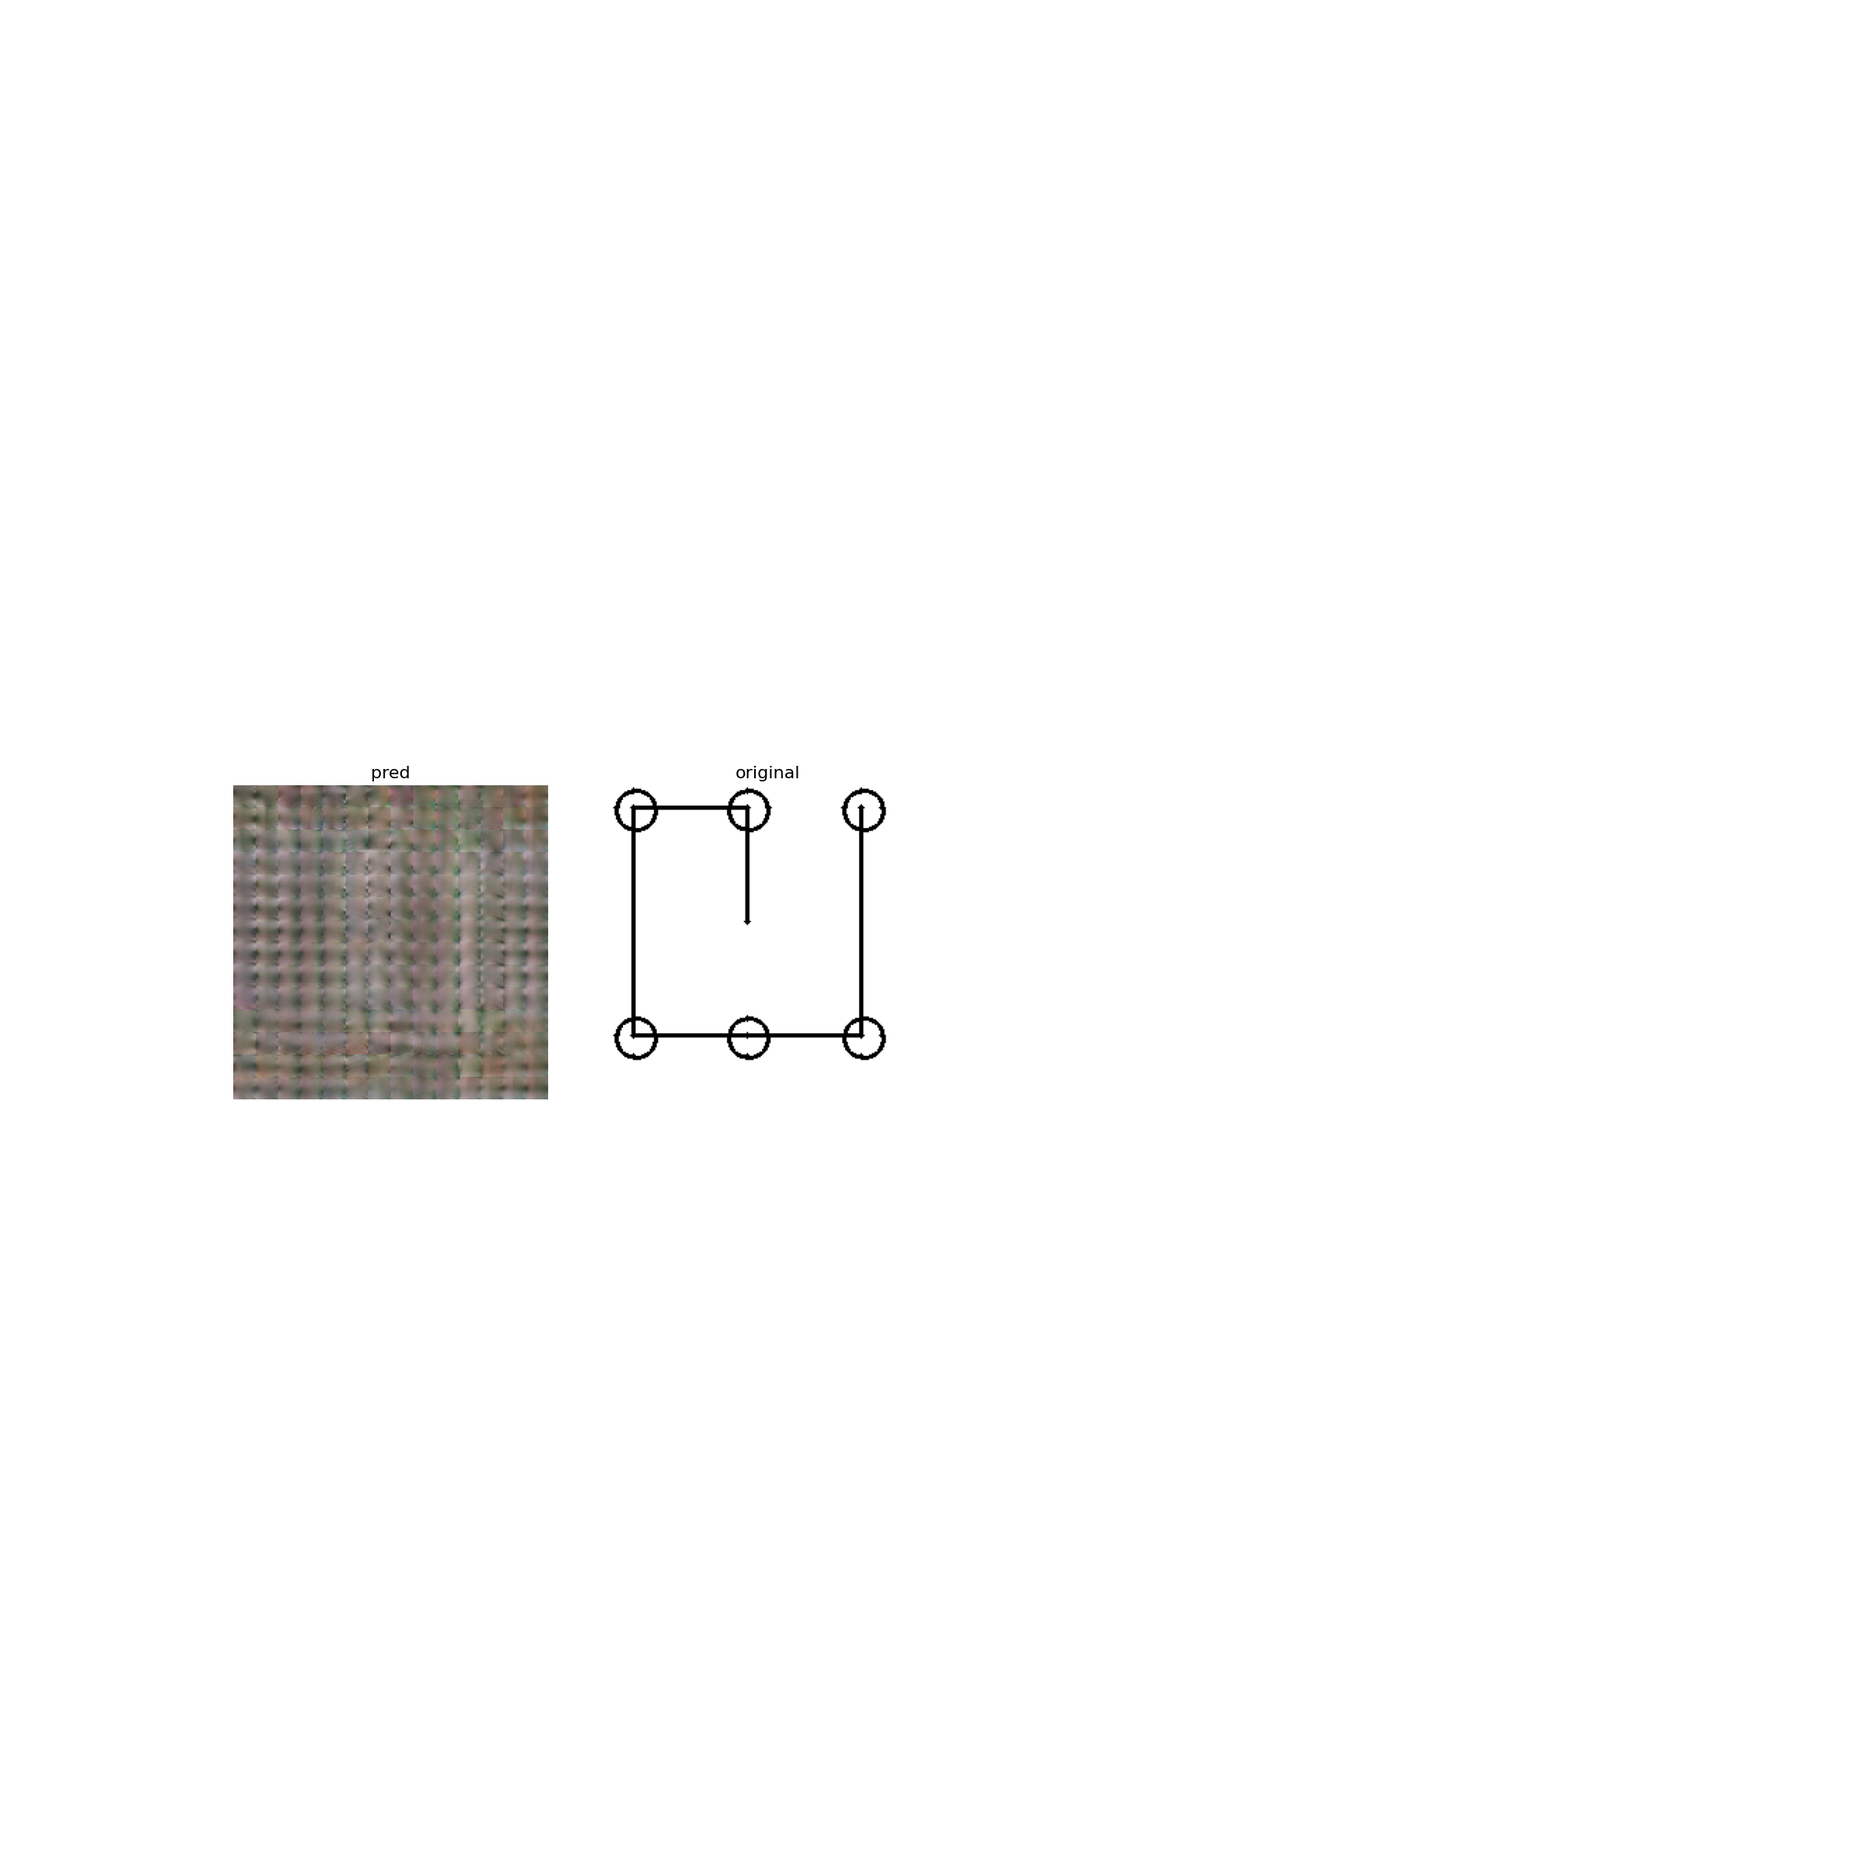
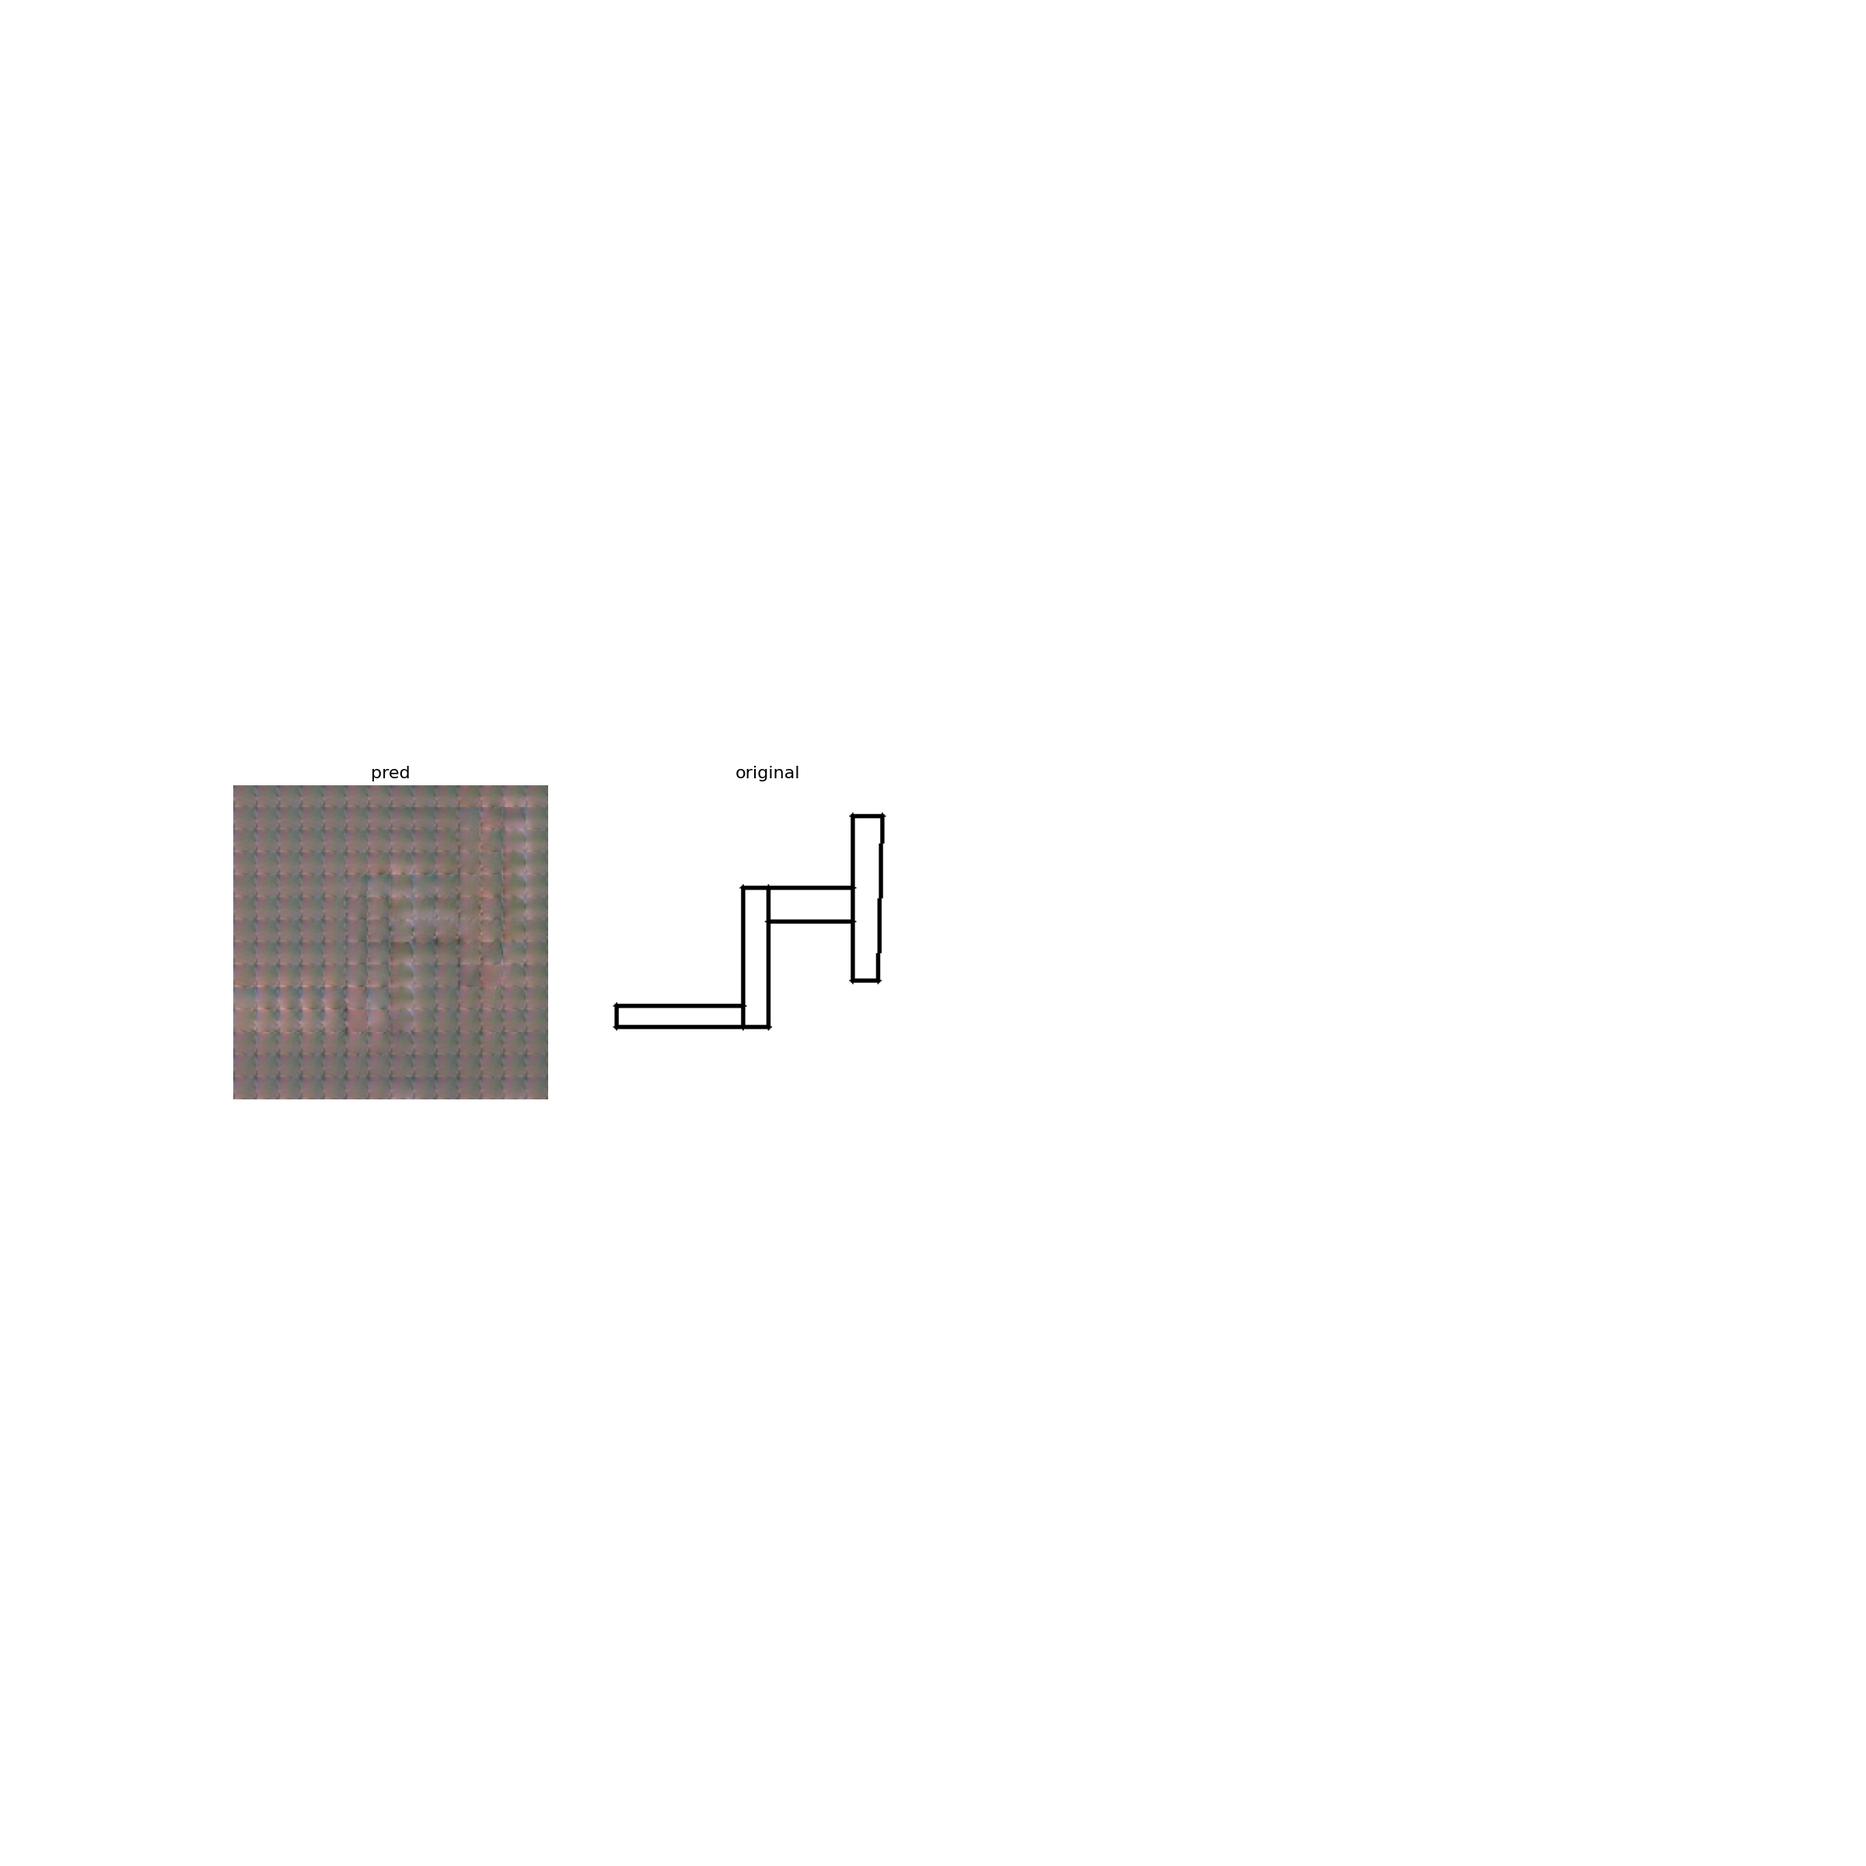
add hand_drawn for each entitiy

Changed region(s): [[0.125, 0.4062, 0.3125, 0.5938], [0.3125, 0.4062, 0.4688, 0.5625], [0.3125, 0.4375, 0.3438, 0.4688]]

diff --git a/geometry/visualization.py b/geometry/visualization.py
@@ -75,6 +75,48 @@ def visualize_sample(input_curves, box_lim):
     # del matplotlib, plt
     return out
 
+def visualize_sample_handraw(entities, box_lim):
+    input_curves = [get_curves(ent) for ent in entities]
+    batch_size = len(input_curves)
+    
+    dpi = 100
+    figure_size_inches = ( 224 / dpi, 224 / dpi)
+    out = []
+    url = "http://images.cocodataset.org/val2017/000000039769.jpg"
+    
+    
+    for in_curve in input_curves:
+
+        # import matplotlib.pyplot as plt
+        fig, ax = plt.subplots()
+        fig.set_dpi(dpi)
+        fig.set_size_inches(figure_size_inches)
+        # fig.subplots_adjust(left=0, bottom=0, right=1, top=1)
+
+        handraw_curves(in_curve, ax=ax, box_lim=box_lim, color="black")
+        # draw_curves(label_curves[i], ax=ax, box_lim=box_lim, color="blue")
+
+        fig.canvas.draw()
+        img = Image.frombytes('RGB', fig.canvas.get_width_height(), fig.canvas.tostring_rgb())
+        # plt.pause(3.)
+        plt.close()
+        # plt.cla()
+        # plt.clf()
+        # plt.close('all')
+        # plt.close(fig)
+        # gc.collect()
+        
+        del fig, ax
+        out.append(img)
+        
+        # img.close()
+        # image = Image.open(requests.get(url, stream=True).raw)
+        # out.append(image)
+
+    # gc.collect()
+    # del matplotlib, plt
+    return out
+
 
 def visualize_sample_cv(point_entities, box_lim):
     dpi = 100
@@ -98,6 +140,18 @@ def visualize_sample_pil(point_entities, box_lim):
 
     return out
 
+def handraw_curves(curves, ax, box_lim, color, draw_points=False):
+    ax.set_xlim(left=-3, right=box_lim)
+    ax.set_ylim(bottom=-3, top=box_lim)
+    ax.set_xticks([])
+    ax.set_yticks([])
+
+    colors = {2: 'red', 3:'green', 4:'blue'}
+
+    for curve in curves:
+        if curve and curve.good:
+                curve.hand_draw(ax=ax,  color=colors[curve.points.shape[0]], draw_points=draw_points)
+   
 def draw_curves(curves, ax, box_lim, color, draw_points=False):
     ax.set_xlim(left=-3, right=box_lim)
     ax.set_ylim(bottom=-3, top=box_lim)
@@ -108,8 +162,7 @@ def draw_curves(curves, ax, box_lim, color, draw_points=False):
 
     for curve in curves:
         if curve and curve.good:
-                curve.draw(ax=ax,  color=colors[curve.points.shape[0]], draw_points=draw_points)
-            
+                curve.draw(ax=ax,  color=colors[curve.points.shape[0]], draw_points=draw_points)         
 
 def render_sketch_opencv(point_entities, size, quantize_bins, linewidth=2):
 
@@ -117,7 +170,10 @@ def render_sketch_opencv(point_entities, size, quantize_bins, linewidth=2):
     cell_size = size // quantize_bins
 
     curves = get_curves(point_entities)
-    assert all(curve for curve in curves)
+    for curve in curves:
+        if curve ==  None:
+            print(point_entities) 
+            assert all(curve for curve in curves)
 
     for curve in curves:
         curve.draw_np(np_image, draw_points=True, linewidth=linewidth, cell_size=cell_size)

diff --git a/geometry/arc.py b/geometry/arc.py
@@ -2,9 +2,12 @@ import cv2
 import matplotlib.lines as lines
 import matplotlib.patches as patches
 import numpy as np
+import numpy.random as npr
 
+import math
 import geometry.geom_utils as geom_utils
 from geometry.curve import Curve
+from geometry.line import Line
 from geometry.opencv_colors import CV2_COLORS
 
 
@@ -12,7 +15,20 @@ class Arc(Curve):
     def __init__(self, points):
         assert len(points) == 3, "Arc must be defined by 3 points"
         super(Arc, self).__init__(points)
+        
+        self.start_point=None
         self.find_arc_geometry()
+        
+        if self.start_point!=None:
+            self.get_ranges()
+            self._get_chol()
+        
+    def get_ranges(self):
+        self.update_x(self.start_point[0])
+        self.update_y(self.start_point[1])
+        self.update_x(self.end_point[0])
+        self.update_x(self.end_point[1])
+
 
     def draw(self, ax, draw_points=True, linewidth=1, color="green"):
         if not self.good:
@@ -43,6 +59,45 @@ class Arc(Curve):
         if draw_points:
             self.draw_points(ax)
 
+    def hand_draw(self, ax, draw_points=True, linewidth=1, color="green"):
+        if not self.good:
+            xdata, ydata = zip(self.points[0], self.points[2])
+            line = Line((self.points[0],self.points[2]))
+            line.hand_draw(ax, draw_points, linewidth,color)
+            
+            return 
+        
+        start_angle = geom_utils.rads_to_degs(self.start_angle_rads)
+        end_angle = geom_utils.rads_to_degs(self.end_angle_rads)
+        
+        # angle = math.atan2(self.center[1], self.center[0]) * 180 / math.pi
+        # start = start_angle * 180 / math.pi + angle
+        # end = end_angle * 180 / math.pi + angle
+        
+        start = np.pi * start_angle / 180
+        end = np.pi * end_angle / 180
+        
+
+
+        if end < start:
+            end += 2 * np.pi
+
+        length = np.abs(self.radius * (end-start))
+        max_idx = np.maximum(int(np.floor((length / self.scale) * self.resolution)), 1)
+
+        try:
+            y = self.scale * self.cK[:max_idx, :max_idx] @ npr.randn(max_idx)
+        except:
+            import pdb;pdb.set_trace()
+            
+        thetas = np.linspace(start, end, max_idx)
+        newx = self.center[0]+ (self.radius + y) * np.cos(thetas)
+        newy = self.center[1] + (self.radius + y) * np.sin(thetas)
+        
+        ax.plot(newx, newy, color=color, linewidth=linewidth)
+        if draw_points:
+            self.draw_points(ax)
+    
     def draw_np(self, np_image, draw_points=True, linewidth=1, color="green", cell_size=4):
         """ Draw the line on a quantized grid with cell of size (cell_size, cell_size) """
 
@@ -125,6 +180,10 @@ class Arc(Curve):
 
         # [O' Rourke (C)] p. 201. Simplified by Jim Ward.
         a, b, c = self.points
+        a = np.array(a)
+        b = np.array(b)
+        c = np.array(c)
+        
 
         A = b[0] - a[0] 
         B = b[1] - a[1]

diff --git a/geometry/curve.py b/geometry/curve.py
@@ -2,12 +2,61 @@ import math
 import cv2
 from geometry.opencv_colors import CV2_COLORS
 
+import numpy as np
+from numpy.linalg import cholesky
+
+def get_distances(x: np.ndarray, length_scale: float, squared: bool=False) -> np.ndarray: 
+    x2d = np.atleast_2d(x) / length_scale
+    squared_distances = (x2d-x2d.T)**2
+    distances = np.sqrt(squared_distances)
+    return distances if squared is False else (distances, squared_distances)
+
+def jitter(arr: np.ndarray, nugget: float=1e-6) -> np.ndarray: 
+    m, _ = arr.shape 
+    return arr + (np.eye(m) * nugget)
+
+def matern(x: np.ndarray, length_scale: float, amplitude: float, **kwargs) -> np.ndarray:   
+    nu = kwargs.get("nu", 3)
+    if nu == 3: 
+        distances = get_distances(x, length_scale)
+        K = (1 + np.sqrt(nu) * distances) * np.exp(-np.sqrt(nu) * distances)
+    elif nu == 5: 
+        distances, squared_distances = get_distances(x, length_scale, squared=True)
+        K = (1 + np.sqrt(nu) * distances + nu * squared_distances/3) * np.exp(-np.sqrt(nu) * distances)
+    else: 
+        raise NotImplementedError
+    return amplitude**2 * jitter(K)
+
 
 class Curve:
     def __init__(self, points):
         self.points = points
         self.good = False
         self.invalid_reason = None
+        
+        self.resolution = 500
+        self.max_x = -100
+        self.min_x = 100
+        self.max_y = -100
+        self.min_y = 100
+    
+    def update_x(self, x: np.ndarray):
+        if x > self.max_x:
+            self.max_x = x
+        if x < self.min_x:
+            self.min_x = x
+            
+    def update_y(self, y: np.ndarray):
+        if y > self.max_y:
+            self.max_y = y
+        if y < self.min_y:
+            self.min_y = y
+
+    def _get_chol(self, ls: float=0.05, amp: float=0.002):
+        self.scale = 10 * np.sqrt((self.max_x-self.min_x)**2 + (self.max_y-self.min_y)**2)
+        self.x = np.linspace(0, 1, self.resolution)
+        K = matern(self.x, ls, amp)
+        self.cK = cholesky(K)
 
     def draw_points(self, ax):
         """

diff --git a/geometry/line.py b/geometry/line.py
@@ -1,6 +1,7 @@
 import cv2
 import matplotlib.lines as lines
 import numpy as np
+import numpy.random as npr
 
 from geometry.curve import Curve
 from geometry.opencv_colors import CV2_COLORS
@@ -19,6 +20,14 @@ class Line(Curve):
         else:
             self.invalid_reason = "Line has zero length"
 
+        self.get_ranges()
+        self._get_chol()
+        
+    def get_ranges(self):
+        self.max_x = self.points[0][0] if self.points[0][0]>self.points[1][0] else self.points[1][0]
+        self.min_x = self.points[1][0] if self.points[0][0]>self.points[1][0] else self.points[0][0]
+        self.max_y = self.points[0][1] if self.points[0][1]>self.points[1][1] else self.points[1][1]
+        self.min_y = self.points[1][1] if self.points[0][1]>self.points[1][1] else self.points[0][1]
 
     def draw(self, ax, draw_points=True, linewidth=1, color="black"):
         pt0, pt1 = self.points
@@ -63,3 +72,33 @@ class Line(Curve):
             self.draw_points_pil(img_draw, transform=transform)
 
         return img_draw
+    
+    def hand_draw(self, ax, draw_points=True, linewidth=1, color="black"):
+        pt0, pt1 = self.points
+
+        linestyle = "-"
+        xdata = [pt0[0], pt1[0]]
+        ydata = [pt0[1], pt1[1]]
+        start_x = xdata[0]
+        start_y = ydata[0]
+        end_x = xdata[1]
+        end_y = ydata[1]
+        
+        length = np.sqrt((end_x-start_x)**2 + (end_y-start_y)**2)
+        max_idx = int(np.floor((length / self.scale) * self.resolution))
+
+        y = self.scale * self.cK[:max_idx, :max_idx] @ npr.randn(max_idx)
+        x = self.x[:max_idx] * self.scale
+
+        theta = np.arctan2(end_y-start_y, end_x-start_x)
+        newx = start_x + x * np.cos(theta) - y * np.sin(theta)
+        newy = start_y + y * np.cos(theta) + x * np.sin(theta)
+        
+        if draw_points:
+            marker = '.'
+        else:
+            marker = None
+        
+        ax.plot(x, y, color, linewidth=linewidth, marker=marker, linestyle=linestyle)
+        
+        return newx, newy

diff --git a/geometry/circle.py b/geometry/circle.py
@@ -4,6 +4,8 @@ from geometry.curve import Curve
 import cv2
 from geometry.opencv_colors import CV2_COLORS
 
+import numpy.random as npr
+
 
 class Circle(Curve):
     def __init__(self, points):
@@ -11,12 +13,48 @@ class Circle(Curve):
         super(Circle, self).__init__(points)
         self.find_circle_geometry()
 
+        self.get_ranges()
+        self._get_chol()
+        
+    def get_ranges(self):
+        self.update_x(self.center[0])
+        self.update_y(self.center[1])
+        self.update_x(self.radius)
+        self.update_x(-self.radius)
+        self.update_y(self.radius)
+        self.update_y(-self.radius)
+        
     def draw(self, ax, draw_points=True, linewidth=1, color="red"):
         assert self.good, "The curve is not in the good state"
         ap = patches.Circle(self.center, self.radius, lw=linewidth, fill=None, color=color)
         ax.add_patch(ap)
         if draw_points:
             self.draw_points(ax)
+    
+    def hand_draw(self, ax, draw_points=True, linewidth=1, color="red"):
+        gap = npr.rand() * 360
+        
+        start = gap
+        end = gap+359
+        
+        start = np.pi * start / 180
+        end = np.pi * end / 180
+
+        if end < start:
+            end += 2 * np.pi
+
+        length = np.abs(self.radius * (end-start))
+        max_idx = np.maximum(int(np.floor((length / self.scale) * self.resolution)), 1)
+
+        y = self.scale * self.cK[:max_idx, :max_idx] @ npr.randn(max_idx)
+
+        thetas = np.linspace(start, end, max_idx)
+        newx = self.center[0] + (self.radius + y) * np.cos(thetas)
+        newy = self.center[1] + (self.radius + y) * np.sin(thetas)
+        ax.plot(newx, newy, color=color, linewidth=linewidth)
+        if draw_points:
+            self.draw_points(ax)
+            
 
     def draw_np(self, np_image, draw_points=True, linewidth=2, color="red", cell_size=4):
         """ Draw the line on a quantized grid with cell of size (cell_size, cell_size) """

diff --git a/dataset/sg_dataset_imageconditional.py b/dataset/sg_dataset_imageconditional.py
@@ -4,7 +4,7 @@ import random
 import json
 from pathlib import Path
 from geometry.parse import get_curves, get_point_entities
-from geometry.visualization import visualize_batch, visualize_sample, visualize_sample_cv
+from geometry.visualization import visualize_batch, visualize_sample, visualize_sample_cv, visualize_sample_handraw
 # import clip
 import torch 
 from transformers import CLIPImageProcessor, AutoImageProcessor, ViTMAEModel
@@ -99,7 +99,8 @@ class SketchGraphsCollator:
         labels[labels == self.tokenizer.pad_token_id] = -100
 
         point_inputs = [get_point_entities(sketch["input_text"]+sketch['output_text']) for sketch in sketch_dicts]
-
+        
+        #hand_imgs = visualize_sample_handraw(point_inputs, 64+3)
         list_of_img = visualize_sample_cv(point_entities=point_inputs, box_lim=64 + 3)
         batch_images = self.vitmae_preprocess(list_of_img, return_tensors="pt")
         

diff --git a/geometry/parse.py b/geometry/parse.py
@@ -56,6 +56,9 @@ def get_curve(points):
             curve = Arc(points)
         elif len(points) == 4:
             curve = Circle(points)
+        
+        if curve ==None:
+            print(points)
     except Exception as e:
         pass
     return curve
